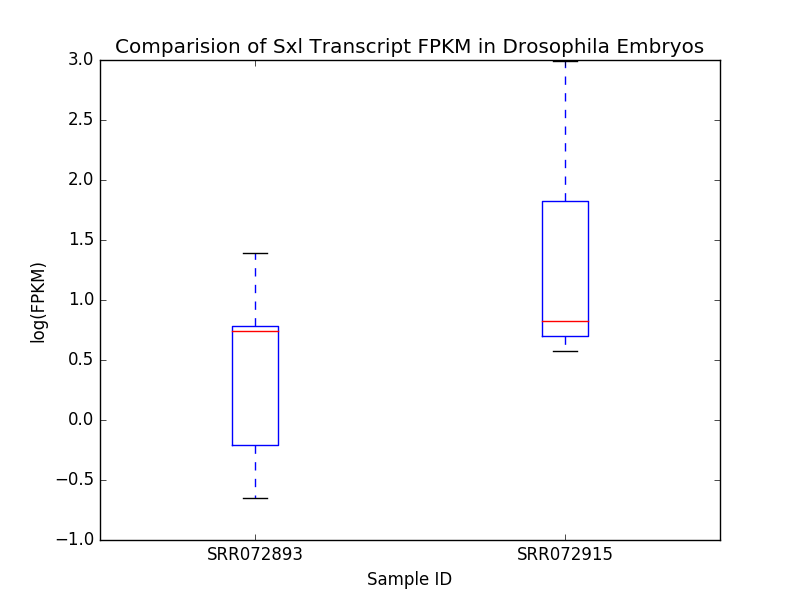
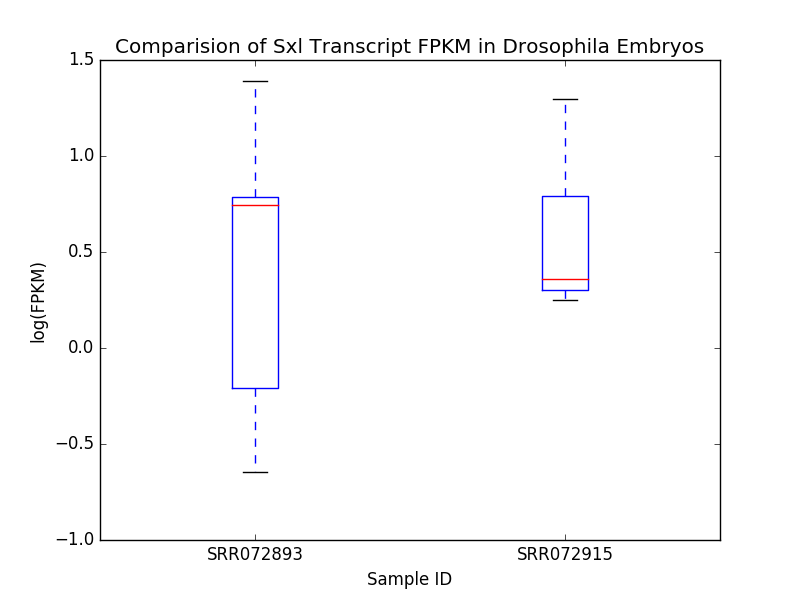
made log10

diff --git a/day4-lunch/day4-lunch.py b/day4-lunch/day4-lunch.py
@@ -21,7 +21,7 @@ df2_roi = (df["gene_name"]=="Sxl") & (df["FPKM"]>0)
 df_sx=df[df_roi]
 dfp= np.log(df_sx["FPKM"])
 df2_sx = df2[df2_roi]
-df2p = np.log(df2_sx["FPKM"])
+df2p = np.log10(df2_sx["FPKM"])
 #df_for_plot = pd.dataframe(data,index=index, columns = columns)
 #df_for_plot['SRR072893'] = df_sx["SRR072893"]
 #df_for_plot['SRR072915']=df2_sx["SRR072915"]
